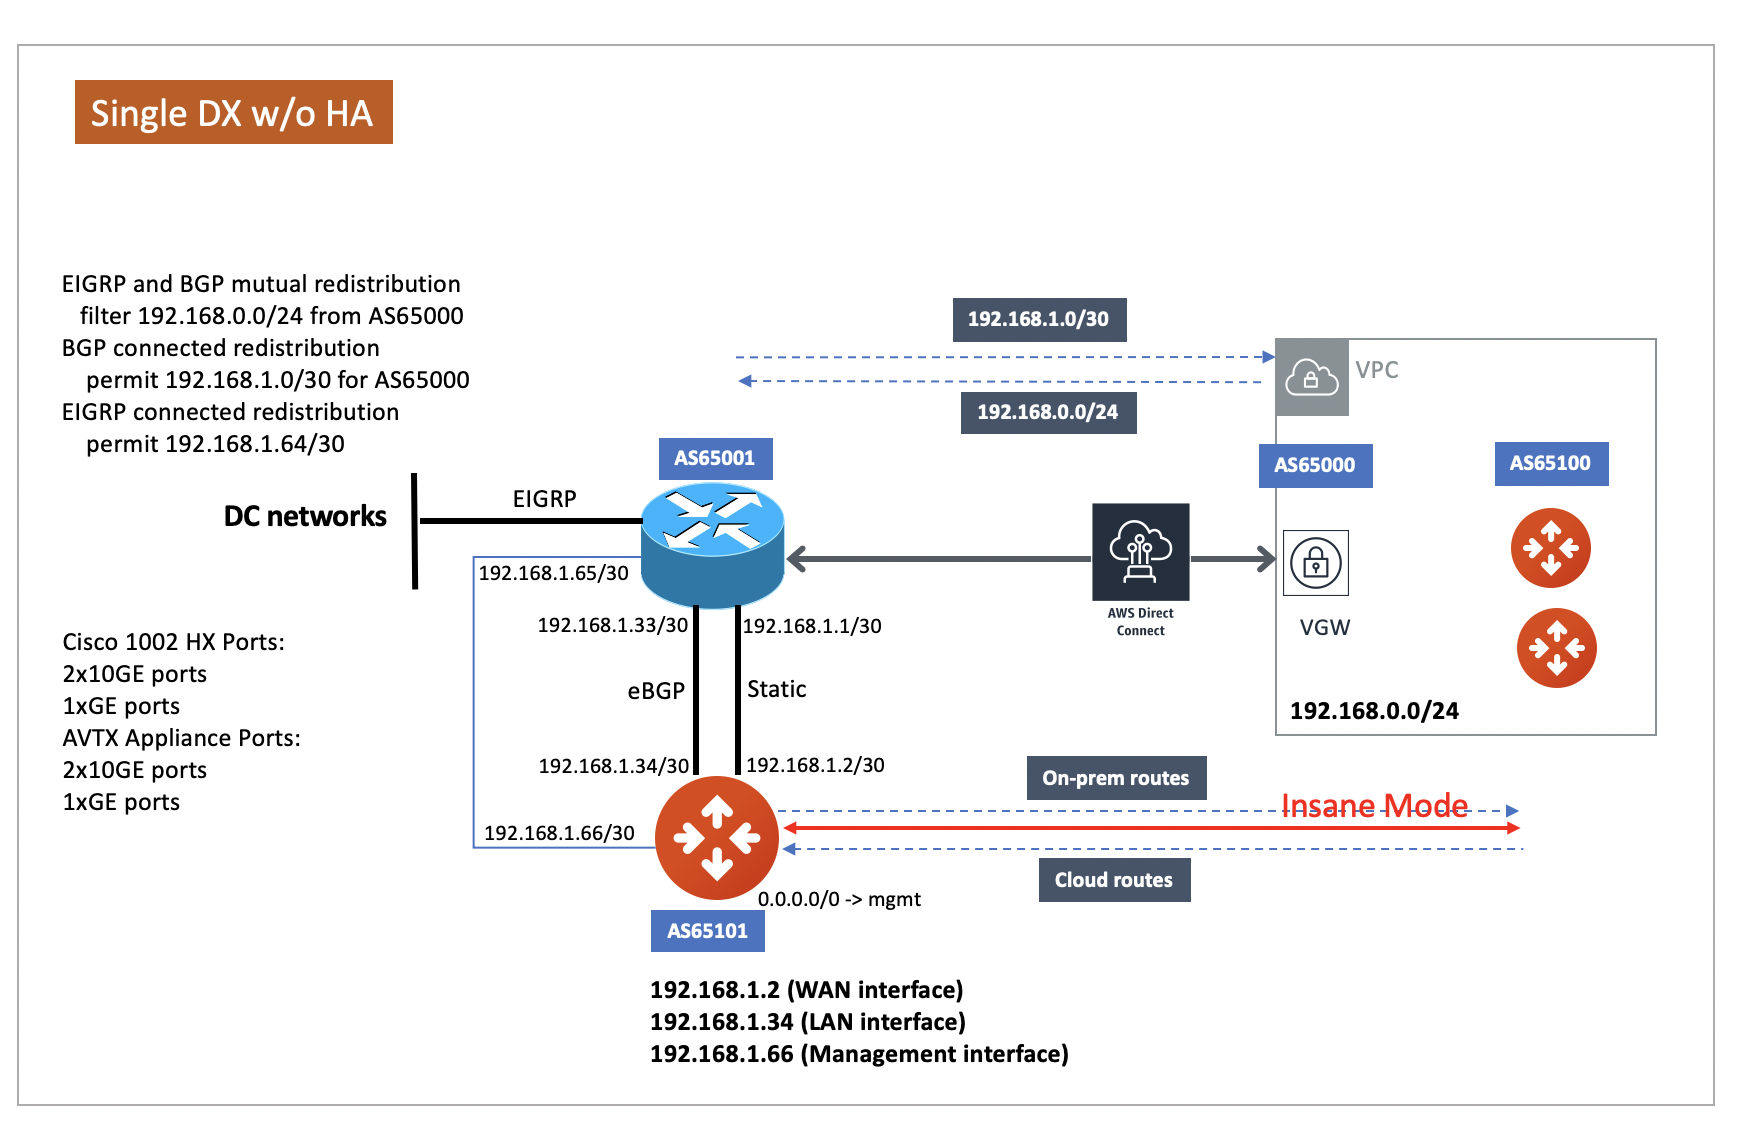
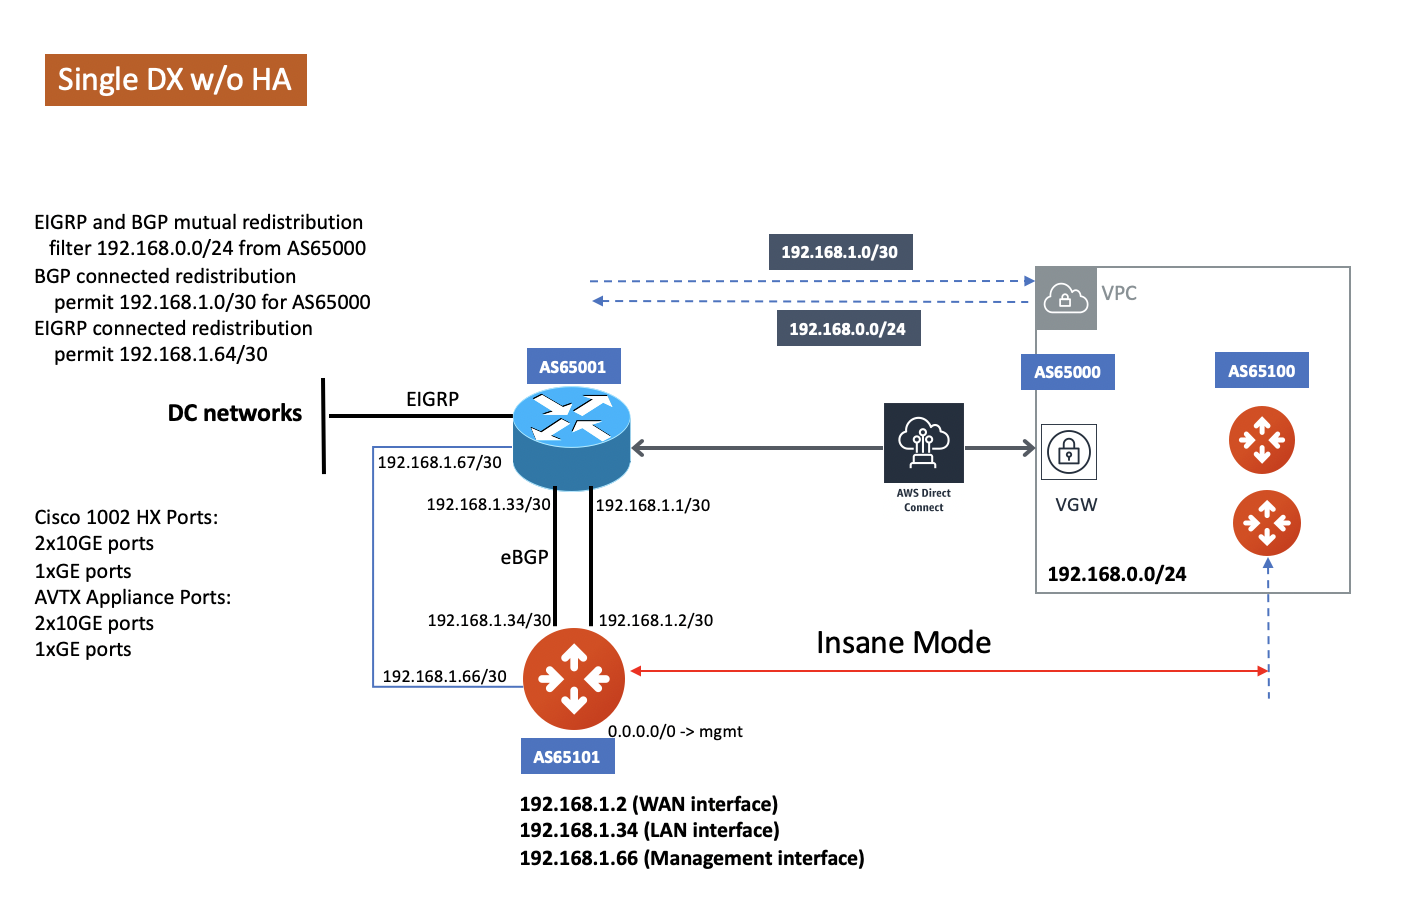
update azure startup guide, update insane mode diagram

diff --git a/HowTos/nextgentransit_for_azure.rst b/HowTos/nextgentransit_for_azure.rst
@@ -61,10 +61,11 @@ CloudOps engineers without extensive networking background are able to build and
 How do I deploy it?
 --------------------------------------------------------------------
 
-The Aviatrix Controller is available in Azure Marketplace. Follow the `Azure Startup Guide <https://docs.aviatrix.com/StartUpGuides/azure-aviatrix-cloud-controller-startup-guide.html>`_ to launch the Controller. Once the Controller is launched, follow 
-the onboarding steps to setup Azure API credentials so that the Controller can launch gateways on behalf of the Azure account. 
-When onboarding is complete, select the use case Next-Gen Transit Network 
-and follow the `workflow <https://docs.aviatrix.com/HowTos/transitvpc_workflow.html>`_ to start building the transit network.   
+The Aviatrix Controller is available in Azure Marketplace. 
+
+ 1. Follow the `Azure Startup Guide <https://docs.aviatrix.com/StartUpGuides/azure-aviatrix-cloud-controller-startup-guide.html>`_ to launch the Controller. 
+ #. Follow the onboarding steps to setup Azure API credentials so that the Controller can launch gateways on behalf of the Azure account. 
+ #. Select the use case Next-Gen Transit Network and follow the `workflow <https://docs.aviatrix.com/HowTos/transitvpc_workflow.html>`_ to start building the transit network.   
 
 
 .. |nextgentransit_for_azure| image:: nextgentransit_for_azure_media/nextgentransit_for_azure.png
